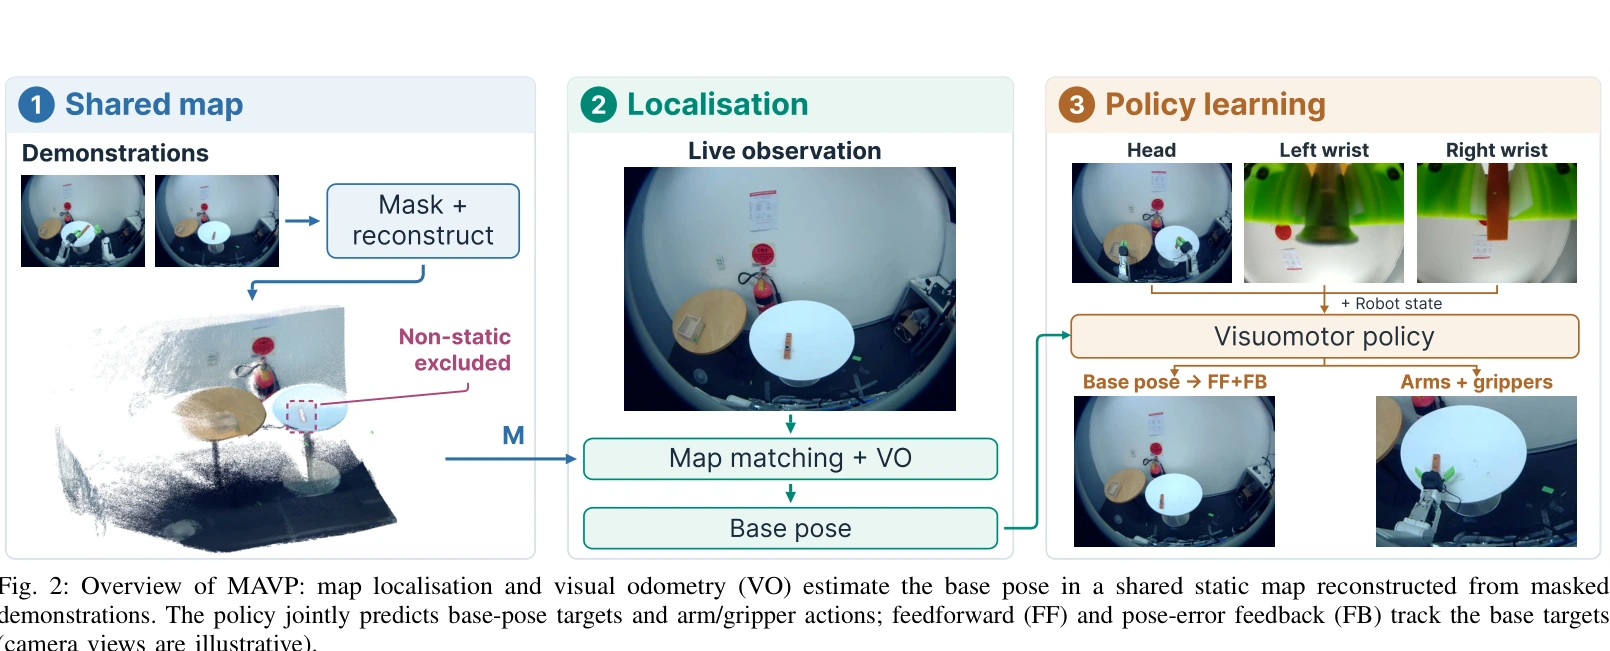
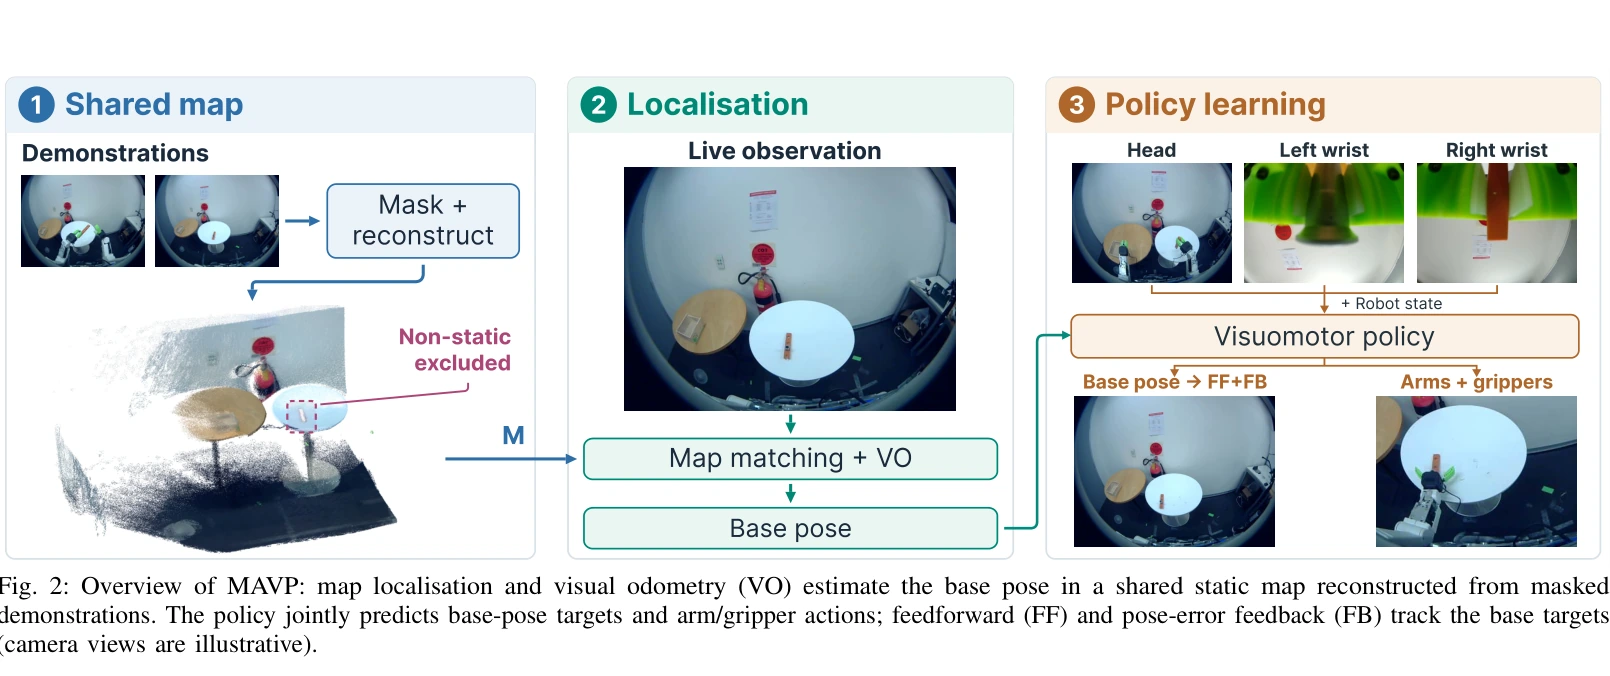
Include full method figure caption

diff --git a/index.html b/index.html
@@ -76,7 +76,7 @@
             <p>The overview below is reproduced directly from Figure 2 of the paper.</p>
           </div>
           <figure class="paper-figure method-figure">
-            <img src="assets/images/method-overview.webp" width="1610" height="651" alt="Paper Figure 2: shared map construction, live localisation, and map-aware policy learning" loading="lazy" />
+            <img src="assets/images/method-overview.webp" width="1610" height="676" alt="Paper Figure 2: shared map construction, live localisation, and map-aware policy learning" loading="lazy" />
           </figure>
         </div>
       </section>

diff --git a/scripts/extract_paper_figures.py b/scripts/extract_paper_figures.py
@@ -12,7 +12,7 @@ from PIL import Image
 # Coordinates are PDF points in the nine-page paper compiled on 2026-09-22.
 CROPS = [
     (0, "six-tasks", (52, 192, 557, 462)),
-    (1, "method-overview", (55, 29, 558, 232)),
+    (1, "method-overview", (55, 29, 558, 240)),
     (4, "control-variants", (34, 190, 301, 305)),
     (6, "feedback-ablation", (52, 34, 307, 205)),
     (6, "policy-families", (311, 156, 558, 280)),
